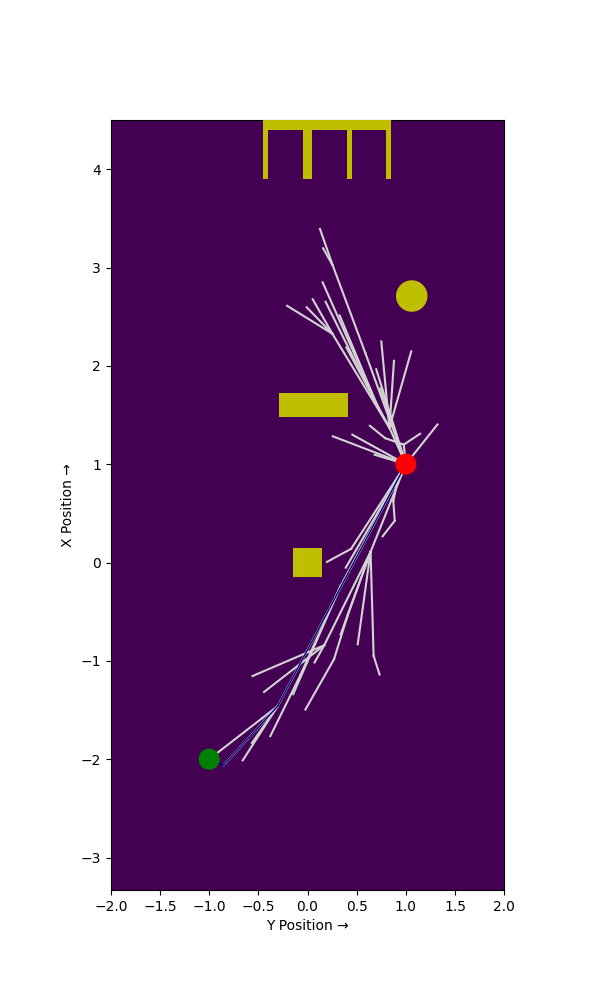
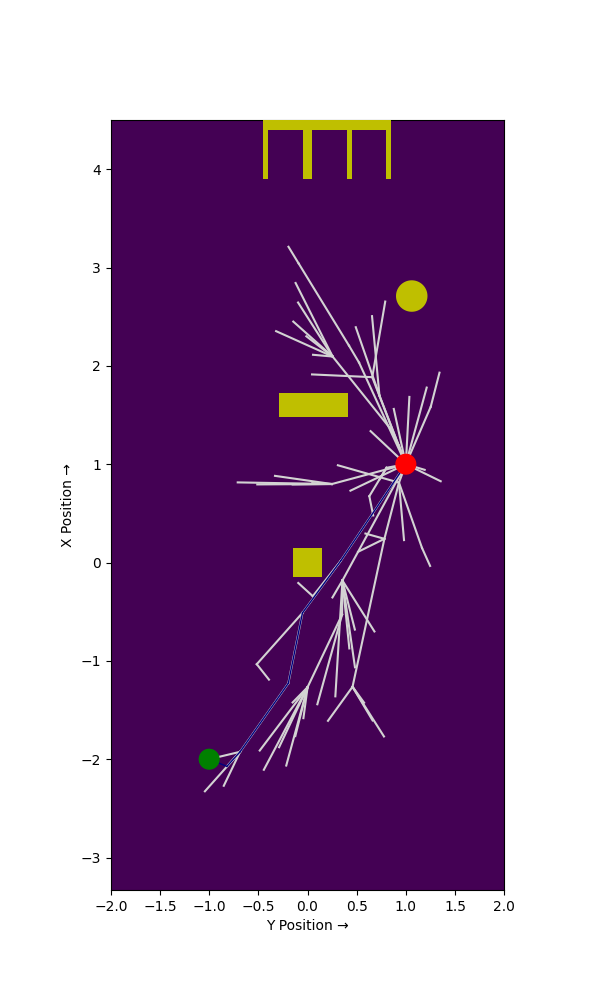
Enhance edge validity checker to ensure collision-free movement and validate car orientation at destination state

Changed region(s): [[0.36, 0.248, 0.72, 0.775], [0.72, 0.372, 0.75, 0.403], [0.69, 0.527, 0.72, 0.558]]

diff --git a/our_code/path_algorithms/MapEnvironment.py b/our_code/path_algorithms/MapEnvironment.py
@@ -161,17 +161,42 @@ class MapEnvironment(object):
 
     def edge_validity_checker(self, state1, state2):
         '''
-        A function to check if the edge between two states is free from collisions. The function will return False if the edge intersects another obstacle.
+        Check if the edge between two states is collision-free and that the robot can be in state2 facing state1 without colliding with obstacles.
         @param state1 The source state of the robot.
         @param state2 The destination state of the robot.
         '''
 
-        # define undirected edge
+        # Define undirected edge
         given_edge = LineString([state1, state2])
 
-        # verify that the robot does not crossing any obstacle
+        # Check collision along the edge
         for obstacle in self.obstacles:
             if given_edge.intersects(obstacle):
+                return False
+
+        # Check if the car can be at state2 facing toward state1
+        orientation_angle = np.arctan2(state1[1] - state2[1], state1[0] - state2[0])  # Angle in radians
+        car_length = 0.28  # Meters (adjust according to your car's footprint)
+        car_width = 0.17   # Meters
+
+        # Define car rectangle at state2 facing state1
+        cos_o, sin_o = np.cos(orientation_angle), np.sin(orientation_angle)
+        dx, dy = car_length / 2, car_width / 2
+
+        # Define corners of the car
+        corners = [
+            [state2[0] + dx * cos_o - dy * sin_o, state2[1] + dx * sin_o + dy * cos_o],
+            [state2[0] + dx * cos_o + dy * sin_o, state2[1] + dx * sin_o - dy * cos_o],
+            [state2[0] - dx * cos_o + dy * sin_o, state2[1] - dx * sin_o - dy * cos_o],
+            [state2[0] - dx * cos_o - dy * sin_o, state2[1] - dx * sin_o + dy * cos_o],
+            [state2[0] + dx * cos_o - dy * sin_o, state2[1] + dx * sin_o + dy * cos_o]  # Close the polygon
+        ]
+
+        car_polygon = Polygon(corners)
+
+        # Check collision with car footprint
+        for obstacle in self.obstacles:
+            if car_polygon.intersects(obstacle):
                 return False
 
         return True
